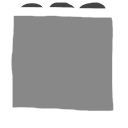
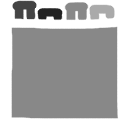
Texture enhancement

Changed region(s): [[0.0625, 0.0, 0.9375, 0.9375]]

diff --git a/Roguecraft.Engine/Procedural/Dungeons/DungeonService.cs b/Roguecraft.Engine/Procedural/Dungeons/DungeonService.cs
@@ -1,4 +1,5 @@
 using Microsoft.Xna.Framework;
+using Microsoft.Xna.Framework.Graphics;
 using MonoGame.Extended;
 using Roguecraft.Engine.Core;
 using Roguecraft.Engine.Factories;
@@ -11,7 +12,7 @@ namespace Roguecraft.Engine.Procedural.Dungeons
     {
         private readonly CollisionService _collisionService;
         private readonly Configuration _configuration;
-        private readonly IActorFactory _decorationFactory;
+        private readonly DecorationFactory _decorationFactory;
         private readonly IActorFactory _doorFactory;
         private readonly Dungeon _dungeon;
         private readonly Room _end;
@@ -35,7 +36,7 @@ namespace Roguecraft.Engine.Procedural.Dungeons
                               IActorFactory doorFactory,
                               IActorFactory potionFactory,
                               IActorFactory weaponFactory,
-                              IActorFactory decorationFactory,
+                              DecorationFactory decorationFactory,
                               MoveableDecorationFactory moveableDecorationFactory,
                               FloorDecorationFactory floorDecorationFactory)
         {
@@ -110,6 +111,20 @@ namespace Roguecraft.Engine.Procedural.Dungeons
                 }
             }
 
+            var s = "";
+            for (var x = 0; x < cells.GetLength(0); x++)
+            {
+                for (var y = 0; y < cells.GetLength(1); y++)
+                {
+                    var c = cells[x, y];
+                    if (c == '_' || c == 'F')
+                    {
+                        c = ' ';
+                    }
+                    s += c;
+                }
+                s += "\n";
+            }
             for (var x = 0; x < cells.GetLength(0); x++)
             {
                 for (var y = 0; y < cells.GetLength(1); y++)
@@ -118,7 +133,7 @@ namespace Roguecraft.Engine.Procedural.Dungeons
                     {
                         continue;
                     }
-                    cells[x, y] = 'F';
+                    //cells[x, y] = '_';
                     var position = new Vector2((x - offset.X) * _configuration.WallSize, (y - offset.Y) * _configuration.WallSize);
 
                     _wallFactory.Add(position);
@@ -132,7 +147,7 @@ namespace Roguecraft.Engine.Procedural.Dungeons
                     {
                         continue;
                     }
-                    cells[x, y] = 'F';
+                    //cells[x, y] = 'F';
                     var position = new Vector2((x - offset.X) * _configuration.WallSize, (y - offset.Y) * _configuration.WallSize);
 
                     _doorFactory.Add(position);
@@ -146,7 +161,7 @@ namespace Roguecraft.Engine.Procedural.Dungeons
                     {
                         continue;
                     }
-                    cells[x, y] = 'F';
+                    //cells[x, y] = 'F';
                     var position = new Vector2((x - offset.X + 0.5f) * _configuration.WallSize, (y - offset.Y + 0.5f) * _configuration.WallSize);
 
                     _heroFactory.Add(position);
@@ -160,7 +175,7 @@ namespace Roguecraft.Engine.Procedural.Dungeons
                     {
                         continue;
                     }
-                    cells[x, y] = 'F';
+                    //cells[x, y] = 'F';
                     var position = new Vector2((x - offset.X + 0.5f) * _configuration.WallSize, (y - offset.Y + 0.5f) * _configuration.WallSize);
                     _enemyFactory.Add(position);
                 }
@@ -174,16 +189,18 @@ namespace Roguecraft.Engine.Procedural.Dungeons
                         continue;
                     }
 
-                    for (var i = 0; i < 2; i++)
-                    {
-                        for (var j = 0; j < 2; j++)
-                        {
-                            cells[x + i, y + j] = 'F';
-                        }
-                    }
+                    //for (var i = 0; i < 2; i++)
+                    //{
+                    //    for (var j = 0; j < 2; j++)
+                    //    {
+                    //        cells[x + i, y + j] = 'F';
+                    //    }
+                    //}
                     var position = new Vector2((x - offset.X) * _configuration.WallSize, (y - offset.Y) * _configuration.WallSize);
 
                     _moveableDecorationFactory.AddTable(position, new Vector2(2), "Table");
+                    x += 2;
+                    y += 2;
                 }
             }
             for (var x = 0; x < cells.GetLength(0); x++)
@@ -194,7 +211,7 @@ namespace Roguecraft.Engine.Procedural.Dungeons
                     {
                         continue;
                     }
-                    cells[x, y] = 'F';
+                    //cells[x, y] = 'F';
                     var position = new Vector2((x - offset.X + 0.5f) * _configuration.WallSize, (y - offset.Y + 0.5f) * _configuration.WallSize);
 
                     _moveableDecorationFactory.AddChair(position);
@@ -208,7 +225,7 @@ namespace Roguecraft.Engine.Procedural.Dungeons
                     {
                         continue;
                     }
-                    cells[x, y] = 'F';
+                    //cells[x, y] = 'F';
                     var position = new Vector2((x - offset.X + 0.5f) * _configuration.WallSize, (y - offset.Y + 0.5f) * _configuration.WallSize);
 
                     _weaponFactory.Add(position);
@@ -222,10 +239,27 @@ namespace Roguecraft.Engine.Procedural.Dungeons
                     {
                         continue;
                     }
-                    cells[x, y] = 'F';
-                    var position = new Vector2((x - offset.X + 0.5f) * _configuration.WallSize, (y - offset.Y + 0.5f) * _configuration.WallSize);
+                    //cells[x, y] = 'F';
+                    var width = 1;
+                    var height = 1;
+                    var spriteEffect = SpriteEffects.None;
+                    if (cells[x - 1, y] == 'W')
+                    {
+                        spriteEffect = SpriteEffects.FlipVertically;
+                    }
+                    //if (cells[x + 1, y] == 'B')
+                    //{
+                    //    width = 2;
+                    //    cells[x + 1, y] = 'F';
+                    //}
+                    //if (cells[x, y + 1] == 'B')
+                    //{
+                    //    height = 2;
+                    //    cells[x, y + 1] = 'F';
+                    //}
+                    var position = new Vector2((x - offset.X) * _configuration.WallSize, (y - offset.Y) * _configuration.WallSize);
 
-                    _potionFactory.Add(position);
+                    _decorationFactory.AddBookshelf(position, new Vector2(width, height), spriteEffect);
                 }
             }
             for (var x = 0; x < cells.GetLength(0); x++)
@@ -236,16 +270,18 @@ namespace Roguecraft.Engine.Procedural.Dungeons
                     {
                         continue;
                     }
-                    for (var i = 0; i < 4; i++)
-                    {
-                        for (var j = 0; j < 4; j++)
-                        {
-                            cells[x + i, y + j] = 'F';
-                        }
-                    }
+                    //for (var i = 0; i < 4; i++)
+                    //{
+                    //    for (var j = 0; j < 4; j++)
+                    //    {
+                    //        cells[x + i, y + j] = 'F';
+                    //    }
+                    //}
                     var position = new Vector2((x - offset.X) * _configuration.WallSize, (y - offset.Y) * _configuration.WallSize);
 
                     _floorDecorationFactory.Add(position, new Vector2(4), "Ritual");
+                    x += 4;
+                    y += 4;
                 }
             }
 

diff --git a/Roguecraft.Engine/Render/TextureRenderer.cs b/Roguecraft.Engine/Render/TextureRenderer.cs
@@ -34,50 +34,65 @@ public class TextureRenderer
                              actor.Angle,
                              actor.Origin,
                              actor.Scale,
-                             SpriteEffects.None,
+                             actor.SpriteEffects,
                              GetLayer(actor.Position));
-            var texture = _fist;
-            var itemColor = actor.Color;
-            if (actor is not Creature creature)
-            {
-                continue;
-            }
-            if (creature.EquipedItem is not null)
-            {
-                color = creature.EquipedItem.Color;
-                texture = creature.EquipedItem.Texture;
-            }
-            var angle = MathF.PI * 0.25f;
-            var timer = creature.Timers[TimerType.Attack];
-            if (timer.IsActive)
-            {
-                angle = MathF.PI;
-                if (timer.Percentage < 0.25f)
-                {
-                    angle *= 2 * timer.Percentage + 0.25f;
-                }
-                else if (timer.Percentage < 0.75f)
-                {
-                    angle *= 0.75f - 1.5f * (timer.Percentage - 0.25f);
-                }
-                else
-                {
-                    angle *= timer.Percentage - 0.75f;
-                }
-            }
-            spriteBatch.Draw(texture,
-                             actor.Position,
-                             color,
-                             actor.Angle - angle,
-                             actor.Origin + new Vector2(-texture.Width, 0),
-                             creature.Scale * 0.75f,
-                             SpriteEffects.FlipHorizontally,
-                             GetLayer(actor.Position) * 1.001f);
+            DrawCreatureArms(spriteBatch, actor);
         }
     }
 
-    private float GetLayer(Vector2 position)
+    private static float GetLayer(Vector2 position, float offset = 0)
     {
-        return 0.5f + position.Y / 100000f + position.X / 10000000000f;
+        return 0.5f + (position.Y + offset) / 100000f + position.X / 10000000000f;
+    }
+
+    private void DrawCreatureArms(SpriteBatch spriteBatch, Actor actor)
+    {
+        if (actor is not Creature creature)
+        {
+            return;
+        }
+
+        var color = creature.Color;
+        var texture = _fist;
+        var armColor = color;
+        if (creature.EquipedItem is not null)
+        {
+            armColor = creature.EquipedItem.Color;
+            texture = creature.EquipedItem.Texture;
+        }
+        var angle = MathF.PI * 0.25f;
+        var timer = creature.Timers[TimerType.Attack];
+        if (timer.IsActive)
+        {
+            angle = MathF.PI;
+            if (timer.Percentage < 0.25f)
+            {
+                angle *= 2 * timer.Percentage + 0.25f;
+            }
+            else if (timer.Percentage < 0.75f)
+            {
+                angle *= 0.75f - 1.5f * (timer.Percentage - 0.25f);
+            }
+            else
+            {
+                angle *= timer.Percentage - 0.75f;
+            }
+        }
+        spriteBatch.Draw(texture,
+                         creature.Position,
+                         armColor,
+                         creature.Angle - angle,
+                         creature.Origin + new Vector2(-texture.Width, 0),
+                         creature.Scale * 0.75f,
+                         SpriteEffects.FlipHorizontally,
+                         GetLayer(actor.Position, 1));
+        spriteBatch.Draw(_fist,
+                         creature.Position,
+                         color,
+                         creature.Angle - MathF.PI * -0.25f,
+                         creature.Origin + new Vector2(texture.Width, 0),
+                         creature.Scale * 0.75f,
+                         SpriteEffects.None,
+                         GetLayer(actor.Position, 1));
     }
 }

diff --git a/Roguecraft.Engine/Factories/DecorationFactory.cs b/Roguecraft.Engine/Factories/DecorationFactory.cs
@@ -1,5 +1,7 @@
 using Microsoft.Xna.Framework;
+using Microsoft.Xna.Framework.Graphics;
 using MonoGame.Extended;
+using MonoGame.Extended.TextureAtlases;
 using Roguecraft.Engine.Actors;
 using Roguecraft.Engine.Components;
 using Roguecraft.Engine.Content;
@@ -16,14 +18,25 @@ public class DecorationFactory : ActorFactoryBase<Wall>
     {
     }
 
+    private SpriteEffects? SpriteEffect { get; set; }
+    private TextureRegion2D? Texture { get; set; }
+
+    public void AddBookshelf(Vector2 position, Vector2 size, SpriteEffects spriteEffect)
+    {
+        Add(position, size, "Bookshelf");
+        Texture = ContentRepository.Bookshelf;
+        SpriteEffect = spriteEffect;
+    }
+
     protected override Wall Create(Vector2 position, string? name = null)
     {
         var wall = new Wall
         {
             Color = Configuration.WoodColor.ToColor(),
-            Texture = ContentRepository.Decoration,
+            Texture = Texture ?? ContentRepository.Decoration,
             Name = name ?? "Decoration",
-            Position = position
+            Position = position,
+            SpriteEffects = SpriteEffect ?? SpriteEffects.None
         };
 
         wall.Collision = new Collision
@@ -31,8 +44,8 @@ public class DecorationFactory : ActorFactoryBase<Wall>
             Actor = wall,
             Bounds = new RectangleF
             {
-                Width = Configuration.WallSize,
-                Height = Configuration.WallSize,
+                Width = Configuration.WallSize * Size.X,
+                Height = Configuration.WallSize * Size.Y,
             },
             IsFixed = true,
             IsTransparent = true,

diff --git a/Roguecraft.Engine/Actors/Actor.cs b/Roguecraft.Engine/Actors/Actor.cs
@@ -1,4 +1,5 @@
 using Microsoft.Xna.Framework;
+using Microsoft.Xna.Framework.Graphics;
 using MonoGame.Extended.TextureAtlases;
 using Roguecraft.Engine.Actions;
 using Roguecraft.Engine.Components;
@@ -39,6 +40,7 @@ public abstract class Actor
         }
     }
 
+    public SpriteEffects SpriteEffects { get; set; } = SpriteEffects.None;
     public TextureRegion2D Texture { get; set; }
     public TimerManager Timers { get; } = new TimerManager();
     public VisibilityProperties Visibility { get; set; } = new();

diff --git a/Roguecraft.Engine/Factories/MoveableDecorationFactory.cs b/Roguecraft.Engine/Factories/MoveableDecorationFactory.cs
@@ -17,7 +17,7 @@ public class MoveableDecorationFactory : ActorFactoryBase<Wall>
     {
     }
 
-    private TextureRegion2D Texture { get; set; }
+    private TextureRegion2D? Texture { get; set; }
 
     public void AddBarrel(Vector2 position, string? name = null)
     {
